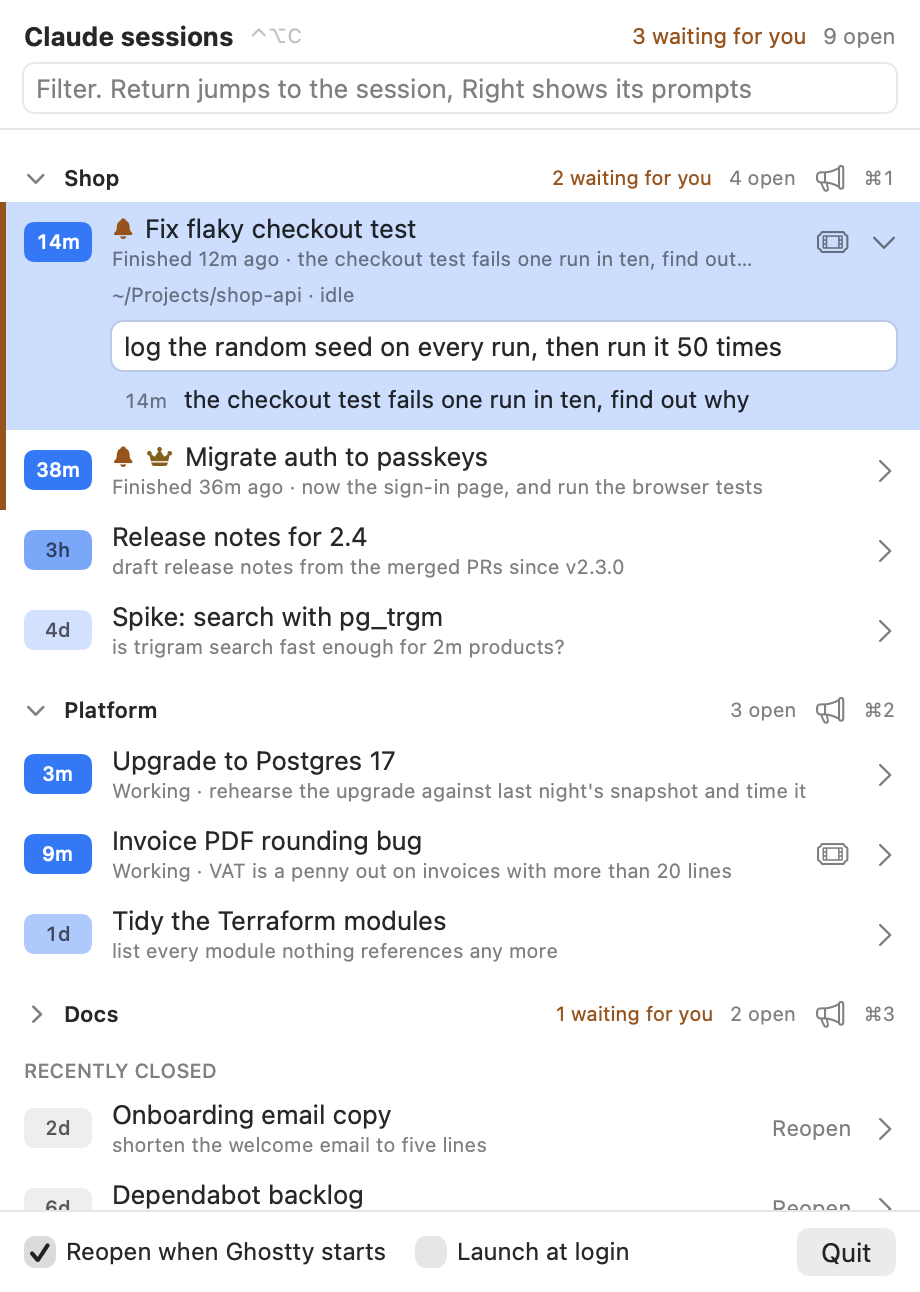
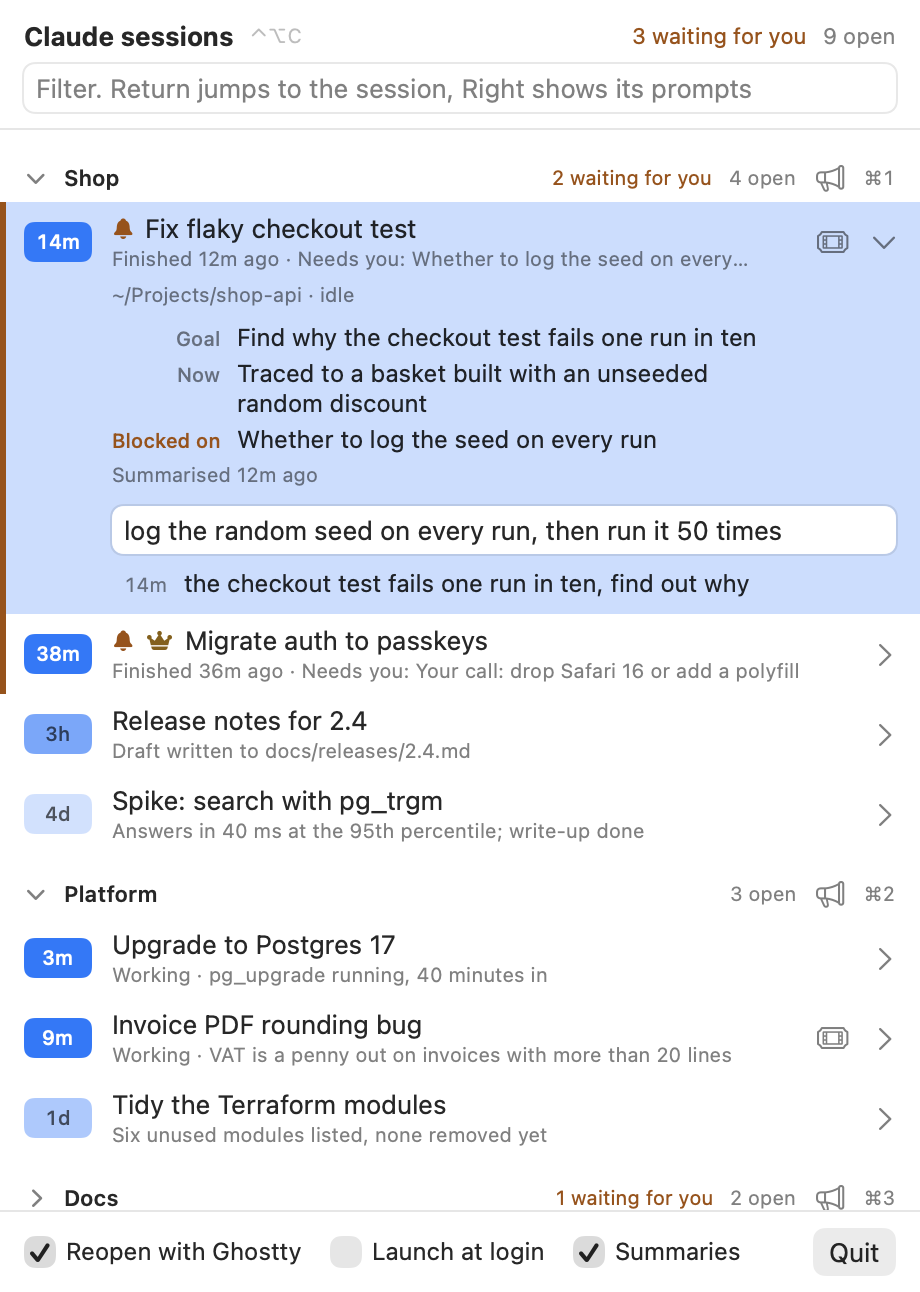
docs: the observer in the README, and screenshots with made-up digests

diff --git a/Sources/LordOfTheClaudes/Screenshots.swift b/Sources/LordOfTheClaudes/Screenshots.swift
@@ -1,4 +1,5 @@
 import AppKit
+import LotcKit
 import SwiftUI
 
 /// Renders the panel off screen for the README, from made-up sessions so no real work is shown.
@@ -13,7 +14,7 @@ enum Screenshots {
         let shots = [
             Shot(name: "panel-dark", appearance: .darkAqua),
             Shot(name: "panel-light", appearance: .aqua),
-            Shot(name: "panel-prompts", appearance: .darkAqua, expanded: ["2"]),
+            Shot(name: "panel-prompts", appearance: .darkAqua, expanded: ["2"], historyOpen: ["2"]),
             Shot(name: "panel-reply", appearance: .aqua, expanded: ["1"],
                  drafts: ["1": "log the random seed on every run, then run it 50 times"]),
             Shot(name: "panel-broadcast", appearance: .darkAqua,
@@ -21,7 +22,8 @@ enum Screenshots {
         ]
         var windows: [(String, NSWindow)] = []
         for shot in shots {
-            let panel = PanelView(store: store, expanded: shot.expanded, drafts: shot.drafts, broadcast: shot.broadcast)
+            let panel = PanelView(store: store, expanded: shot.expanded, drafts: shot.drafts, broadcast: shot.broadcast,
+                                  historyOpen: shot.historyOpen)
             let host = NSHostingView(rootView: panel
                 .background(Color(nsColor: .windowBackgroundColor))
                 .clipShape(RoundedRectangle(cornerRadius: 12))
@@ -60,54 +62,82 @@ enum Screenshots {
         var expanded: Set<String> = []
         var drafts: [String: String] = [:]
         var broadcast: BroadcastDraft?
+        var historyOpen: Set<String> = []
     }
 
     /// Three made-up Ghostty windows: "Shop" (w1, its lord the passkeys session), "Platform" (w2)
     /// and "Docs" (w3, folded away with one session waiting).
     private static func demoRows() -> [Row] {
         func ago(_ minutes: Double) -> Date { Date().addingTimeInterval(-minutes * 60) }
+        /// Steps oldest first, each (minutes ago, state); the goal and what it is blocked on go with the last.
+        func digests(_ goal: String, _ steps: [(Double, String)], blockedOn: String? = nil) -> [Digest] {
+            steps.enumerated().map { index, step in
+                Digest(goal: goal, state: step.1, blockedOn: index == steps.count - 1 ? blockedOn : nil, at: ago(step.0))
+            }
+        }
         func row(_ id: String, _ title: String, _ cwd: String, status: String?, last: Double,
                  needsYou: Bool = false, prompts: [(Double, String)], ticket: String? = nil,
-                 window: String? = nil, tab: Int? = nil, lord: Bool = false) -> Row {
+                 window: String? = nil, tab: Int? = nil, lord: Bool = false, digests: [Digest] = []) -> Row {
             Row(id: id, title: title, cwd: NSHomeDirectory() + "/Projects/" + cwd, status: status,
                 statusSince: status == nil ? nil : ago(max(last - 2, 1)), lastInteraction: ago(last),
                 needsYou: needsYou, prompts: prompts.map { (ago($0.0), $0.1) },
-                ticket: ticket.flatMap(URL.init(string:)), windowId: window, tab: tab, isLord: lord)
+                ticket: ticket.flatMap(URL.init(string:)), windowId: window, tab: tab, isLord: lord,
+                digest: digests.last, digestHistory: digests)
         }
         return [
             row("1", "Fix flaky checkout test", "shop-api", status: "idle", last: 14, needsYou: true,
                 prompts: [(14, "the checkout test fails one run in ten, find out why")],
-                ticket: "https://example.atlassian.net/browse/SHOP-482", window: "w1", tab: 2),
+                ticket: "https://example.atlassian.net/browse/SHOP-482", window: "w1", tab: 2,
+                digests: digests("Find why the checkout test fails one run in ten",
+                                 [(12, "Traced to a basket built with an unseeded random discount")],
+                                 blockedOn: "Whether to log the seed on every run")),
             row("2", "Migrate auth to passkeys", "shop-web", status: "idle", last: 38, needsYou: true,
                 prompts: [(95, "plan the move from passwords to passkeys, keep magic links as the fallback"),
                           (61, "go with option 2, start with the registration ceremony"),
                           (38, "now the sign-in page, and run the browser tests")],
-                window: "w1", tab: 1, lord: true),
+                window: "w1", tab: 1, lord: true,
+                digests: digests("Move sign-in from passwords to passkeys, magic links kept as fallback",
+                                 [(88, "Compared three passkey libraries; recommends option 2"),
+                                  (52, "Registration ceremony built and unit tested"),
+                                  (36, "Sign-in page done; 3 of 41 browser tests fail on Safari 16")],
+                                 blockedOn: "Your call: drop Safari 16 or add a polyfill")),
             row("3", "Upgrade to Postgres 17", "infra", status: "busy", last: 3,
                 prompts: [(3, "rehearse the upgrade against last night's snapshot and time it")],
-                window: "w2", tab: 1),
+                window: "w2", tab: 1,
+                digests: digests("Rehearse the Postgres 17 upgrade and time it",
+                                 [(20, "Snapshot restored to a scratch instance"), (2, "pg_upgrade running, 40 minutes in")])),
             row("4", "Invoice PDF rounding bug", "billing", status: "busy", last: 9,
                 prompts: [(9, "VAT is a penny out on invoices with more than 20 lines")],
                 ticket: "https://example.zendesk.com/agent/tickets/4922", window: "w2", tab: 2),
             row("5", "Release notes for 2.4", "shop-web", status: "idle", last: 190,
                 prompts: [(190, "draft release notes from the merged PRs since v2.3.0")],
-                window: "w1", tab: 3),
+                window: "w1", tab: 3,
+                digests: digests("Release notes for 2.4 from the merged PRs", [(185, "Draft written to docs/releases/2.4.md")])),
             row("6", "Tidy the Terraform modules", "infra", status: "idle", last: 26 * 60,
                 prompts: [(26 * 60, "list every module nothing references any more")],
-                window: "w2", tab: 3),
+                window: "w2", tab: 3,
+                digests: digests("Find Terraform modules nothing uses", [(26 * 60 - 5, "Six unused modules listed, none removed yet")])),
             row("7", "Spike: search with pg_trgm", "shop-api", status: "idle", last: 4 * 24 * 60,
                 prompts: [(4 * 24 * 60, "is trigram search fast enough for 2m products?")],
-                window: "w1", tab: 4),
+                window: "w1", tab: 4,
+                digests: digests("Test trigram search on 2m products",
+                                 [(4 * 24 * 60 - 20, "Answers in 40 ms at the 95th percentile; write-up done")])),
             row("10", "Fix broken links in the guides", "docs", status: "idle", last: 22, needsYou: true,
                 prompts: [(22, "find every broken link in the guides and fix them")],
-                window: "w3", tab: 1),
+                window: "w3", tab: 1,
+                digests: digests("Fix the broken links in the guides", [(20, "Fixed 23 links; 2 point to retired pages")],
+                                 blockedOn: "Where the two retired pages should point")),
             row("11", "Screenshots for the 2.4 guide", "docs", status: "busy", last: 6,
                 prompts: [(6, "retake the screenshots in the 2.4 guide")],
                 window: "w3", tab: 2),
             row("8", "Onboarding email copy", "marketing", status: nil, last: 2 * 24 * 60,
-                prompts: [(2 * 24 * 60, "shorten the welcome email to five lines")]),
+                prompts: [(2 * 24 * 60, "shorten the welcome email to five lines")],
+                digests: digests("Cut the welcome email to five lines",
+                                 [(2 * 24 * 60 - 10, "Five-line version written and sent for review")])),
             row("9", "Dependabot backlog", "shop-web", status: nil, last: 6 * 24 * 60,
-                prompts: [(6 * 24 * 60, "merge the safe ones, list the rest")]),
+                prompts: [(6 * 24 * 60, "merge the safe ones, list the rest")],
+                digests: digests("Clear the Dependabot backlog",
+                                 [(6 * 24 * 60 - 30, "Merged 9 safe updates; 3 need a major-version look")])),
         ]
     }
 }

diff --git a/README.md b/README.md
@@ -1,6 +1,6 @@
 # Lord of the Claudes
 
-One panel to rule them all. A macOS menu bar app that tracks every Claude Code session open in Ghostty, tells you which ones are waiting for you, lets you prompt them and answer their permission prompts in one place, and brings them all back after a reboot.
+One panel to rule them all. A macOS menu bar app that tracks every Claude Code session open in Ghostty, tells you which ones are waiting for you and what each is doing, lets you prompt them and answer their permission prompts in one place, and brings them all back after a reboot.
 
 <p align="center">
   <img src="docs/panel-dark.png" width="460" alt="The panel: three Ghostty windows, one folded away, with three sessions waiting for you">
@@ -8,17 +8,18 @@ One panel to rule them all. A macOS menu bar app that tracks every Claude Code s
 
 ## What it does
 
-- **Shows every session, grouped by Ghostty window.** Title, last prompt and time since you last spoke to it. Each window gets a header with how many are open and how many are waiting. Two windows in one project are told apart: "shop" and "shop 2".
+- **Shows every session, grouped by Ghostty window.** Title, what it is doing and time since you last spoke to it. Each window gets a header with how many are open and how many are waiting. Two windows in one project are told apart: "shop" and "shop 2".
 - **Folds a window away.** The chevron on a group hides its sessions and keeps its counts. Cmd+1 to Cmd+9 jump to a group, Cmd+Down and Cmd+Up to the next or previous one.
 - **Names your windows.** Click a group's name to rename it. Leave it empty to go back to the directory name.
 - **Replies without switching tabs.** Expand a session, type in "Send a prompt" and press Return. Cmd+R opens the field on the selected session.
 - **Prompts a whole window at once.** The megaphone on a group sends one prompt to every session in it. It asks once more, naming the count, before it sends.
 - **Answers permission prompts in one window.** Approve, deny, or tell Claude what to do instead.
+- **Sums up each session.** Each time Claude stops, Haiku writes three lines: what the session is for, where it has got to and what it is waiting on you for.
 - **Lets one session direct the rest.** A lord session runs `lotc` to prompt its siblings and read their answers.
 - **Flags the ones waiting for you.** A session that finishes work while its tab is out of sight gets a bell. Sessions reopened after a restart come back quiet. The menu bar shows the count as "2/7".
 - **Jumps to the tab.** Ctrl+Option+C opens the panel from anywhere. Type to filter, Return to jump.
 - **Reopens everything after a restart.** Quit Ghostty or reboot, and each session resumes in the tab it was in.
-- **Remembers closed sessions.** They stay under "Recently closed" for 14 days with a Reopen button. The last five show, the rest behind "Show all". Sessions in a temporary directory are forgotten once closed.
+- **Remembers closed sessions.** They stay under "Recently closed" for 14 days with a Reopen button and their last summary. The last five show, the rest behind "Show all". Sessions in a temporary directory are forgotten once closed.
 - **Links to the ticket.** A Jira key or Zendesk ticket number in the session title becomes a button.
 
 <p align="center">
@@ -45,12 +46,12 @@ On first run macOS asks to let it control Ghostty. Allow it.
 | Key | Does |
 | --- | --- |
 | Ctrl+Option+C | Open or close the panel |
-| Type | Filter by title, directory or group |
+| Type | Filter by title, directory, group or summary |
 | Up, Down | Move |
 | Cmd+Down, Cmd+Up | Jump to the next or previous group |
 | Cmd+1 to Cmd+9 | Jump to that group. Its number is on its header |
 | Return | Jump to the session, or reopen a closed one |
-| Right, Left, Tab | Show or hide its recent prompts |
+| Right, Left, Tab | Show or hide its summary and recent prompts |
 | Cmd+R | Reply to the selected session |
 | Esc | Leave a text field, or close |
 
@@ -59,12 +60,14 @@ On first run macOS asks to let it control Ghostty. Allow it.
 - Right-click a session and choose "Make lord of this group". The lord shows a crown.
 - Hover a running session for an X that ends it and closes its tab.
 - Sessions untouched for over a week get a "Close them" banner.
-- "Reopen when Ghostty starts" off: the panel offers "Reopen all" instead.
+- "Reopen with Ghostty" off: the panel offers "Reopen all" instead.
 - `pkill -USR1 -x LordOfTheClaudes` toggles the panel from a script.
 
 ## Answer permission prompts in one place
 
     lotc hooks install
+
+This adds two hooks to Claude Code: one for permission prompts, and one for the summaries below.
 
 When Claude Code would ask permission, a window comes to the front. It shows which session is asking, its directory and exactly what it wants to run or change. If several sessions ask at once, it shows them one at a time.
 
@@ -77,7 +80,20 @@ When Claude Code would ask permission, a window comes to the front. It shows whi
 
 Plain Return never approves: the window takes focus while you may be typing somewhere else. Answer in the terminal and the question leaves the window by itself.
 
-If Lord of the Claudes is not running, Claude Code asks in the terminal as usual. `lotc hooks install` edits `~/.claude/settings.json`, leaves the rest of it as it was and keeps a backup beside it. `lotc hooks uninstall` takes the hook out again.
+If Lord of the Claudes is not running, Claude Code asks in the terminal as usual. `lotc hooks install` edits `~/.claude/settings.json`, leaves the rest of it as it was and keeps a backup beside it. Run it again after an upgrade to add a hook you do not have yet. `lotc hooks status` says which are in, and `lotc hooks uninstall` takes both out again.
+
+## Know what every session is doing
+
+<p align="center">
+  <img src="docs/panel-prompts.png" width="460" alt="An expanded session: its goal, where it has got to, what it is blocked on, and its earlier steps">
+</p>
+
+Each time Claude stops, Lord of the Claudes reads the end of that session's transcript and asks Haiku for three lines: the goal, where the work has got to, and what it is blocked on. A row shows what it is blocked on, else where it has got to. Expand it for all three, with the steps before behind "Earlier". The filter searches them, so a closed session can be found by what it did.
+
+- **It uses your own Claude Code login.** It runs `claude -p --model haiku`, so each summary counts towards your usage like any other Claude Code run: a few thousand tokens in, a few dozen out. One run per session at a time, two at most at once, and none when the transcript has not changed.
+- **What leaves your Mac.** The end of the transcript (its last 40 steps, up to 16,000 characters, with its title, directory and first prompt) goes to Anthropic, exactly as Claude Code itself sends it. The summary comes back and is kept only in the app's state file. The summariser runs with no tools, no hooks, no MCP servers, no CLAUDE.md and no saved session.
+- **Turning it off.** Untick "Summaries" at the foot of the panel, or `lotc hooks uninstall` to take out both hooks.
+- **Needs `claude`.** It looks on your PATH, where the installers put it, and on your login shell's PATH.
 
 ## Let sessions work together: `lotc`
 
@@ -85,12 +101,13 @@ If Lord of the Claudes is not running, Claude Code asks in the terminal as usual
 
 | Command | Does |
 | --- | --- |
-| `lotc list` | The sessions in this window: tab, working or idle, waiting for you, lord, title. `--json` for scripts |
+| `lotc list` | The sessions in this window: tab, working or idle, waiting for you, lord, title, and what each is doing. `--json` for scripts, with each summary in full |
 | `lotc send 2 "run the tests"` | Types a prompt into tab 2 and submits it. A tab is its number or part of its title |
 | `lotc broadcast "pull main"` | Sends a prompt to every other tab in the window |
 | `lotc wait 2` | Waits until tab 2 has finished what it was last sent, then prints its answer |
 | `lotc last 2` | Prints tab 2's last answer now |
 | `lotc lord` | Makes this session the lord of its window |
+| `lotc digest` | Each session's goal, state and what it is blocked on, as plain text for a model. A tab for one session, `--all` for every window |
 
 `wait` gives up after 110 seconds, inside Claude Code's two-minute Bash limit. Run it again to keep waiting, or pass `--timeout`. A prompt of `-` is read from stdin. Lord of the Claudes must be running.
 
@@ -109,18 +126,19 @@ Links pasted into a session are picked up by themselves. To turn a Jira key or t
 - It drives Ghostty through AppleScript. Tabs are matched to sessions by title. A new session's tab reads "Claude Code" until Claude names it, so it is matched by directory instead, when it is the only such session and tab there. It never guesses: a session it cannot place shows under "Other".
 - Replies and broadcasts are typed into the tab through AppleScript, as if you had typed them.
 - `lotc` talks to the app over a Unix socket only you can open: `~/Library/Application Support/LordOfTheClaudes/lotc.sock`. It finds its session by walking up its parent processes to one listed in `~/.claude/sessions`.
-- It only reads Claude's files, except that `lotc hooks install` adds one hook to `~/.claude/settings.json`. Its own state is `~/Library/Application Support/LordOfTheClaudes/state.json`.
-- Nothing leaves your Mac. There is no network code.
+- It only reads Claude's files, except that `lotc hooks install` adds two hooks to `~/.claude/settings.json`. Its own state, summaries included, is `~/Library/Application Support/LordOfTheClaudes/state.json`.
+- The app has no network code. Only the summariser's `claude -p` runs talk to Anthropic, as described above.
 
 ## Expect breakage
 
-Claude Code's session files are undocumented and can change in any release. Tested with Claude Code 2.1.322, Ghostty 1.3.1 and macOS 26. If a new version breaks it, open an issue.
+Claude Code's session files are undocumented and can change in any release. Tested with Claude Code 2.1.326, Ghostty 1.3.1 and macOS 26. If a new version breaks it, open an issue.
 
 ## Development
 
 - `./build.sh test` runs the tests.
 - `LOTC_WINDOW_TESTS=1 ./build.sh test` also opens the permission window.
 - To try `lotc` beside an installed copy, run the build with `LOTC_SANDBOX=1 LOTC_SOCKET=<path>`. That turns off the hotkey and state.json. Set the same `LOTC_SOCKET` for `lotc`.
+- `.build/debug/LordOfTheClaudes --summarise <transcript.jsonl>` runs the summariser once on a transcript and prints what it wrote.
 
 ## Screenshots
 
